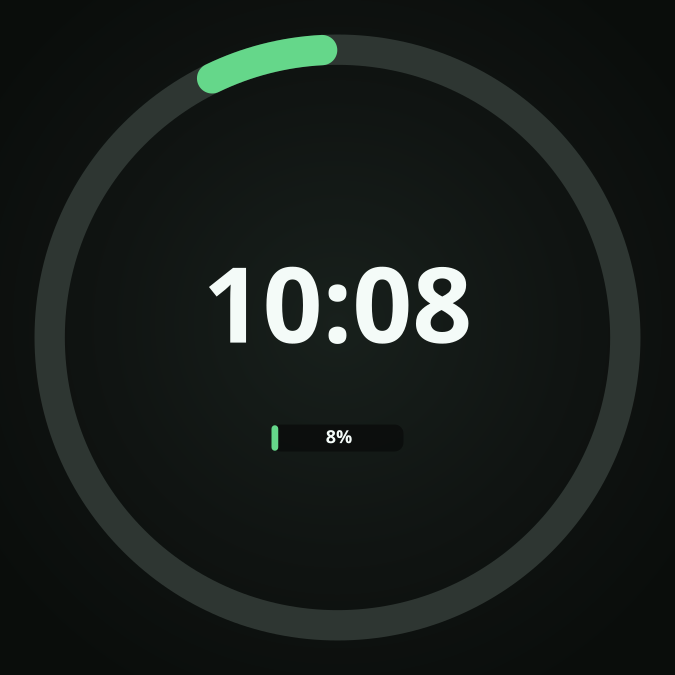
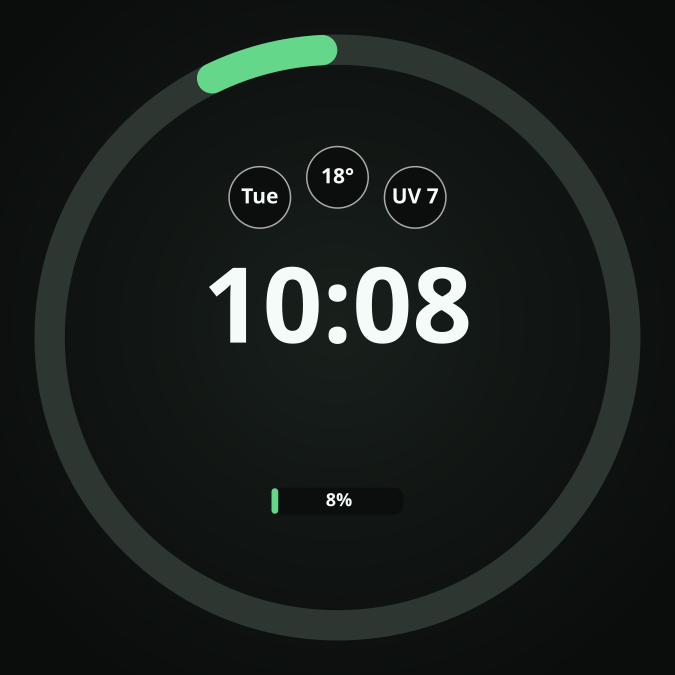
fix(watchface): generate every face preview

diff --git a/docs/DEVELOPMENT_PLAN.md b/docs/DEVELOPMENT_PLAN.md
@@ -2236,8 +2236,10 @@ this entry is what the design commits the remaining passes to.
 Unrelated to the cells, and found while reading the system face picker on 2026-10-09: the
 picker advertises the face with `drawable/preview.png`, unchanged since `2c5aec3`, which draws
 the side-by-side `RING 1` / `RING 2` wireframe — the first non-goal in the design baseline. No
-generator owns that asset, so no check compares it to the face. Recorded under *The preview in
-the face picker* in `docs/product/WATCH_RING_DESIGN.md`.
+generator owned that asset at the time. It is now generated from the Primary baseline with the
+face review previews by `tools/render-watch-ring-designs.mjs`. Recorded under *Previews are
+generated — and the picker's showed the first non-goal* in
+`docs/product/WATCH_RING_DESIGN.md`.
 
 Rationale: the face says a great deal about AI spend and nothing a watch is ordinarily expected
 to say. The band above the clock has been reserved for a weather glance since the 2026-07-25

diff --git a/docs/ANDROID_TOOLCHAIN.md b/docs/ANDROID_TOOLCHAIN.md
@@ -616,10 +616,11 @@ export ANDROID_SERIAL="$WEAR_SERIAL"
 just run-watchface
 ```
 
-The preview image is a sanitized emulator capture. After visual changes, replace it with a
-fresh interactive-mode capture from the canonical round Wear AVD. The shipped one is stale and
-advertises a retired layout — see *The preview in the face picker* in
-`docs/product/WATCH_RING_DESIGN.md`.
+The preview image is generated from the Primary baseline by
+`node tools/render-watch-ring-designs.mjs`. After visual changes, use a fresh interactive-mode
+capture from the canonical round Wear AVD to verify the face and picker; do not produce the
+asset from that capture. See *Previews are generated — and the picker's showed the first
+non-goal* in `docs/product/WATCH_RING_DESIGN.md`.
 
 ### The package ships no code, and the system owns its complication slots
 

diff --git a/docs/product/WATCH_RING_DESIGN.md b/docs/product/WATCH_RING_DESIGN.md
@@ -1297,12 +1297,11 @@ the face already uses for the ring type — see Upper cells, rule 12.
 
 ## Review variants
 
-Regenerate with `node tools/render-watch-ring-designs.mjs`, then optional PNG previews:
+`node tools/render-watch-ring-designs.mjs` regenerates the boards, their seven owned PNG
+previews, and the face-picker preview from the WFF copy of the Primary baseline. To open the
+primary review preview after generation:
 
 ```sh
-convert -background none -density 144 \
-  apps/wear_android/design/round-3-plan-credits.svg \
-  apps/wear_android/design/preview-3-plan-credits.png
 xdg-open apps/wear_android/design/preview-3-plan-credits.png
 ```
 

diff --git a/apps/wear_android/design/README.md b/apps/wear_android/design/README.md
@@ -9,10 +9,6 @@ Primary preview: `preview-3-plan-credits.png`.
 
 ```sh
 node tools/render-watch-ring-designs.mjs
-
-convert -background none -density 144 \
-  apps/wear_android/design/round-3-plan-credits.svg \
-  apps/wear_android/design/preview-3-plan-credits.png
 xdg-open apps/wear_android/design/preview-3-plan-credits.png
 ```
 
